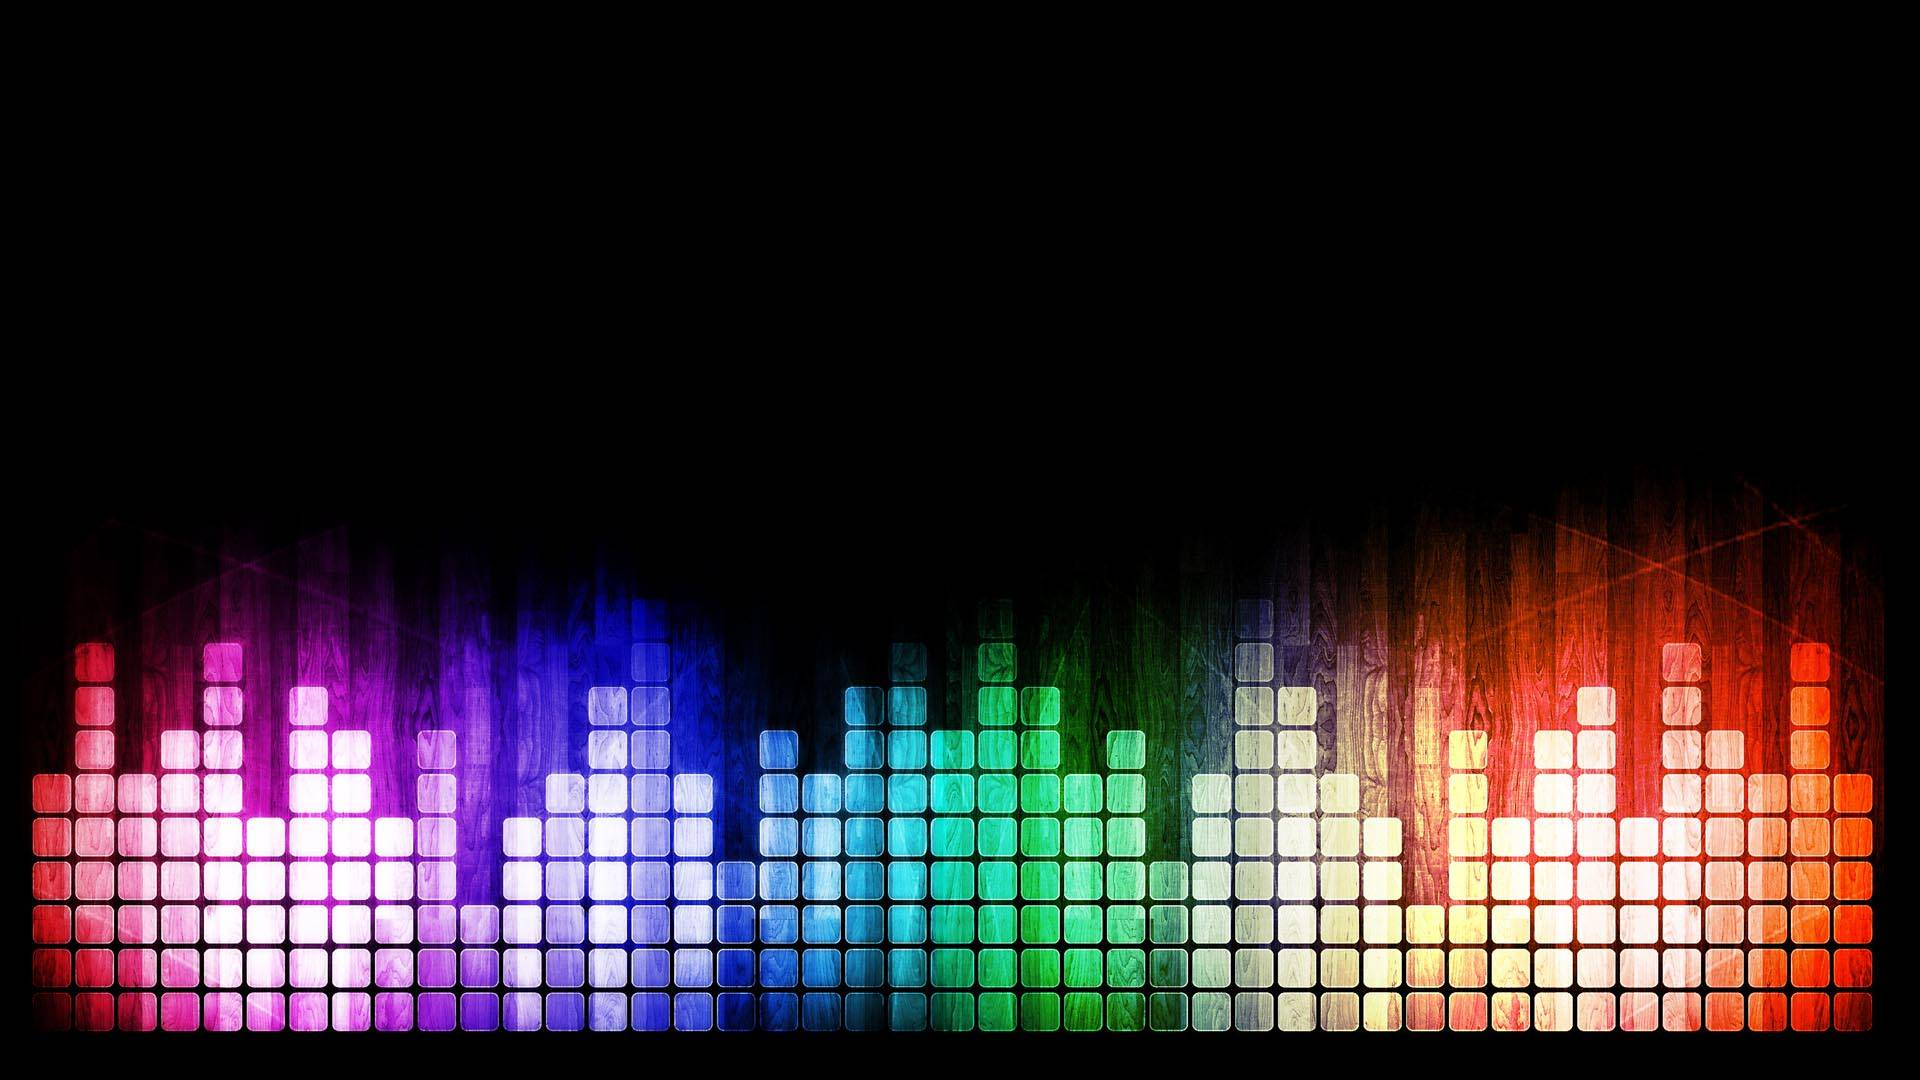
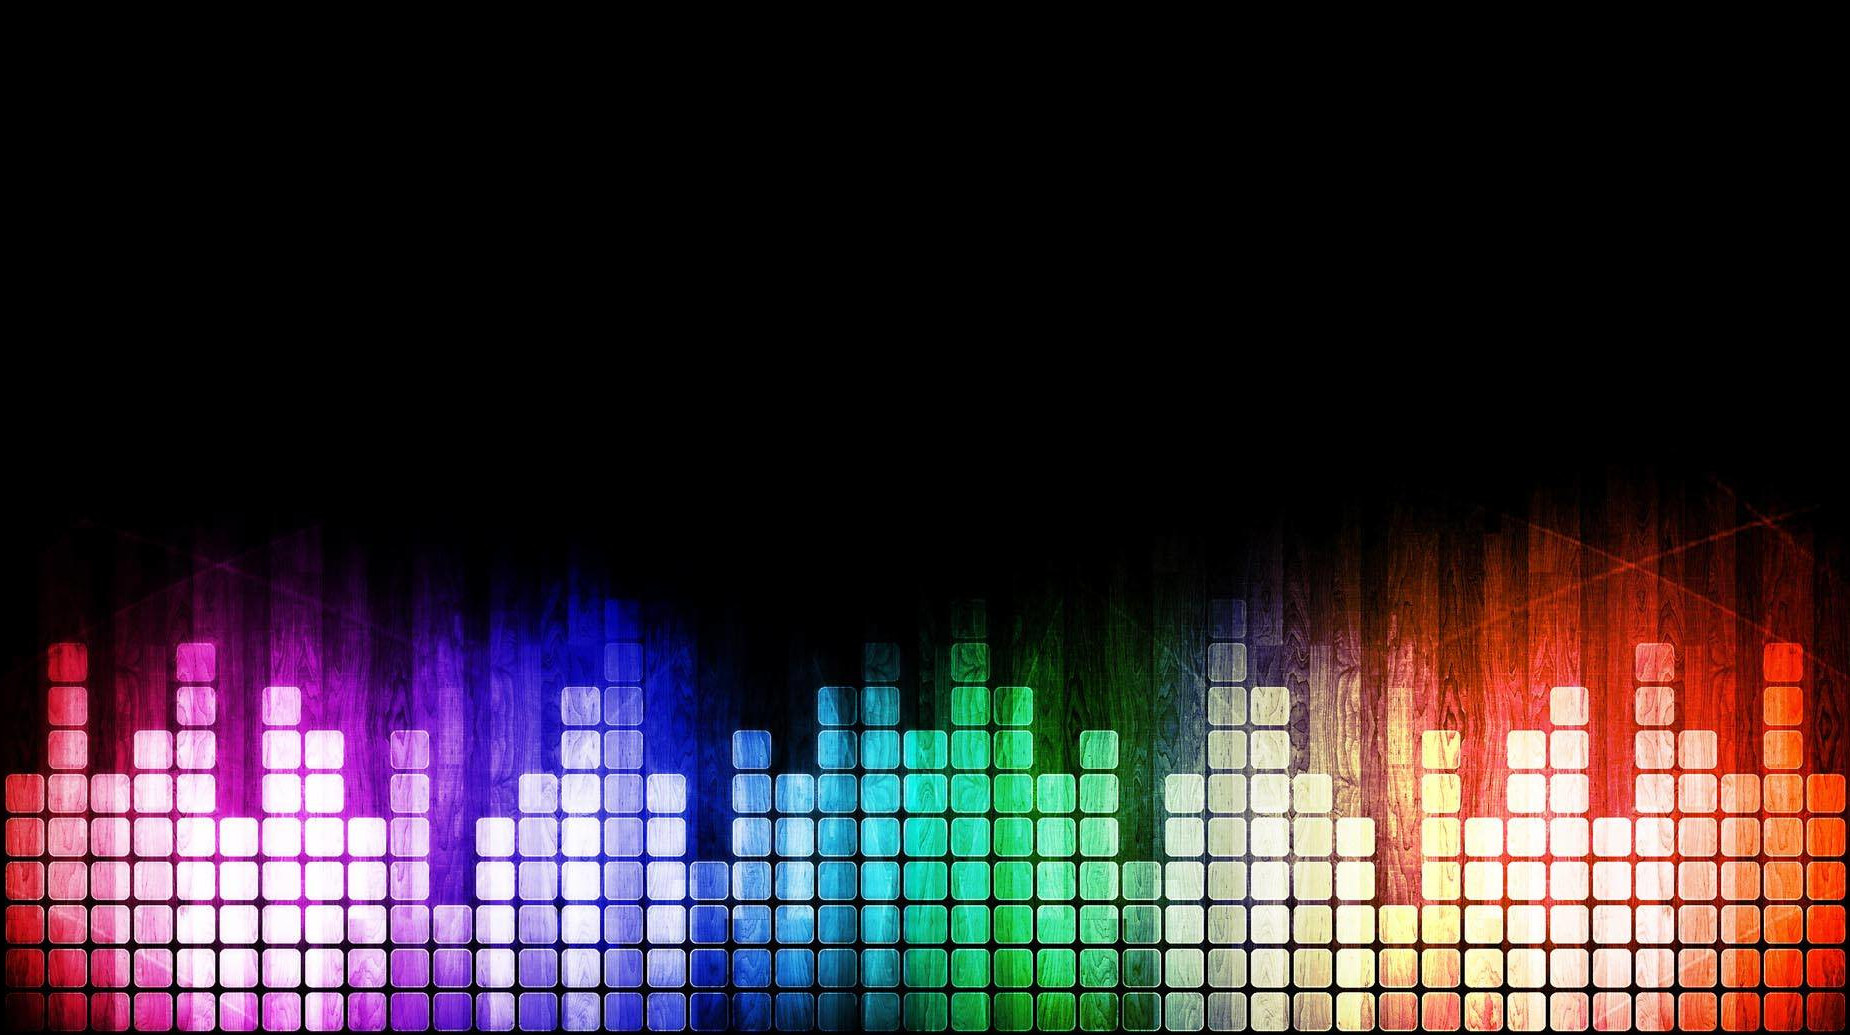
possible new design?

diff --git a/src/components/navbar.vue b/src/components/navbar.vue
@@ -1,16 +1,48 @@
 <template>
   <div class="nav">
     <div class="links">
-      <router-link tag="a" class="rlink" to="/">Home</router-link> |
-      <router-link tag="a" class="rlink" to="/login">Login</router-link> | 
-      <router-link tag="a" class="rlink" to="/register">Register</router-link> 
+      <router-link tag="a" class="rlink" id="home" to="/">
+        <img src="@/assets/logo_inverted.png"/>  
+      </router-link>
+      <a class="spotify-link" v-bind:href="authLink"><i class="fab fa-spotify"></i> Log in with Spotify</a>
     </div>
   </div>
 </template>
 
 <script>
 export default {
-  name: 'Navbar'
+  name: 'Navbar',
+  data() {
+    return {
+      authLink: ""
+    }
+  },
+  methods: {
+    getToken: function() {
+      let tokenCode = this.$data.tokenCode;
+      let clientId = '7616d568b9dc48e99f6a3776c6847315';
+      let clientSecret = '***REMOVED***';
+      let encoded = btoa(clientId + ':' + clientSecret);
+      let scopes = encodeURIComponent('playlist-modify-public playlist-modify-private user-modify-playback-state user-top-read user-read-recently-played user-read-private user-read-email user-read-birthdate');
+      let postUrl = 'https://accounts.spotify.com/authorize'
+                    + '?client_id=' + clientId
+                    // + '?client_secret=' + clientSecret
+                    + '&response_type=' + 'token'
+                    // + '?grant_type=' + 'authorization_code'
+                    // + '?code=' + tokenCode
+                    + '&scope=' + scopes
+                    + '&redirect_uri=' + encodeURIComponent('http://localhost:8080/verify');
+      console.log(postUrl);
+      this.$data.authLink = postUrl;  
+    },
+    getInfo: function() {
+      
+    }
+  },
+  mounted() {
+    this.getToken();
+    this.getInfo();
+  }
 }
 </script>
 
@@ -19,18 +51,32 @@ export default {
     margin: 0;
     padding: 0;
     height: 50px;
-    border-radius: 5px;
+    /*border-radius: 5px;*/
     background-color: #272727;
     text-align: center;
   }
   
-  .links {
-    padding-top: 10px;
-  }
-
-  .rlink {
+  .spotify-link{
     color: #d8d8d8;
     text-decoration: none;
+    position:absolute;
+    right: 20px;
+    top: 10px;
+    height: 40px;
+    font-size: 1.4em;
+    display: block;
+  }
+  #home {
+    color: #d8d8d8;
+    text-decoration: none;
+    position:absolute;
+    left:20px;;
+  }
+
+  img {
+    width: 40px;
+    position: absolute;
+    top: 10px;
   }
 
 </style>

diff --git a/src/views/Home.vue b/src/views/Home.vue
@@ -2,9 +2,8 @@
   <div class="home">
     <Navbar />
     <h1>TunePort</h1>  
-    <img class = "tuneportlogo" src = "../assets/logo_inverted.png" />
-    <img class = "animated" src = "../assets/audio.gif" />
-    <img class = "backgroundimg" src = "../assets/audio.jpg" />
+      <router-link id="link" tag="a" to="/register">Get Started</router-link>
+    <img class = "backgroundimg" src = "../assets/headphones.jpg" />
     <p class="subtitle">Take Control of Your Music</p>
   </div>
 </template>
@@ -33,6 +32,8 @@ export default {
 <style>
 /* Global styles */
 body {
+  margin: 0;
+  background-color: #EBF1F3;/* #2c3e50;*/
   color: #d8d8d8;
 }
 
@@ -47,50 +48,30 @@ h1 {
 
 .backgroundimg{
   position: absolute;
-  margin: 0px;
-  padding: 0px;
-  border: 0px;
-  width: 107%;
-  bottom: -60px;
-  left: -40px;
+  max-width: 140%;
+  top: 0px;
+  left: -15%;
+  height: auto;
   z-index: -2;
-}
-
-.animated {
-  position: absolute;
-  background-color: rgba(255, 255, 255, 0);
-  left: 650px;
-  top: 12%;
-  z-index: -1;
 }
 
 h1 {
   position: absolute;
   background-color: rgba(255, 255, 255, 0);
-  color: #d8d8d8;
-  font-size: 6em;
+  color: #000000;
+  font-size: 7em;
   position: absolute;
   top: 22%;
-  left: 250px;
+  left: 150px;
 }
 
 p.subtitle {
   position: absolute;
   top: 37%;
-  left: 265px;
-  font-size: 1.5em;
-  color: #d8d8d8;
+  left: 165px;
+  font-size: 3em;
+  color: #000000;
 }
-
-.tuneportlogo {
-  background-color: rgba(255, 255, 255, 0);
-  position: absolute;
-  top: 31%;
-  left: 145px;
-  margin: 0px;
-  width: 100px;
-}
-
 
 .spotifylogo {
   background-color: rgba(255, 255, 255, 0);
@@ -101,12 +82,17 @@ a {
   font-size: 1.2em;
 }
 
-a.login-button {
+#link {
   position: absolute;
-  top: 50%;
-  border: 1px solid white;
-  color: #d8d8d8; 
-  padding: 1%;
+  height: 40px;
+  width: 215px;
+  top: 450px;
+  left: 165px;
+  border-radius: 5px;
+  background-color: #1dbab4/*#7CDBD5*/;
+  color: #ffffff;
+  font-size: 2em;
+  text-align: center;
+  text-decoration: none;
 }
-
 </style>

diff --git a/src/views/Register.vue b/src/views/Register.vue
@@ -1,6 +1,6 @@
 <template>
   <div class="register">
-    <Navbar />
+    <Navbar class="navbar"/>
     <div class="container">
       <div class="left"></div>
       <div class="right">
@@ -8,7 +8,7 @@
         <p class="text">Glad that you're joining us!</p>
         <p class="text">Tuneport is a great way to be able to take control of how your Spotify recommendations are generated.</p>
         <p class="text">Tuneport uses recommendations from your Spotify account to function. A Spotify account is required to use Tuneport.</p>
-        <a class="spotify-link" v-bind:href="authLink"><i class="fab fa-spotify"></i> Log in to Spotify</a>
+        <a class="spotify-link" v-bind:href="authLink"><i class="fab fa-spotify"></i> Log in with Spotify</a>
       </div>
     </div>
   </div>
@@ -56,9 +56,9 @@ export default {
 }
 </script>
 
-<style >
+<style scoped>
 body{
-  background-color: #000000;/* #2c3e50;*/
+  background-color: #EBF1F3;/* #2c3e50;*/
 }
 
 h1 {
@@ -66,7 +66,7 @@ h1 {
 }
 
 .left {
-  background-image: url('https://images.pexels.com/photos/1690081/pexels-photo-1690081.jpeg?auto=compress&cs=tinysrgb&dpr=2&h=750&w=1260');
+  background-image: url("../assets/marshmellow.jpg");
   background-position: center;
   background-size: cover;
   border-top-left-radius: 5%;
@@ -79,7 +79,7 @@ h1 {
   background-color:  #151616; 
   border-top-right-radius: 5%;
   border-bottom-right-radius: 5%;
-  border-top: 2px solid #fa0300;
+  border-top: 2px solid #1dbab4;
 }
 
 p.text {
@@ -97,7 +97,7 @@ p.text {
 
 a.spotify-link {
   display: inline-block;
-  margin-left: 50%;
+  margin-left: 40%;
   margin-top: 10%;
   color: #ffffff;
   background-color: #1DB954;

diff --git a/src/views/Dashboard.vue b/src/views/Dashboard.vue
@@ -1,6 +1,9 @@
 <template>
   <div class="dashboard">
     <div class="topbar">
+      <router-link tag="a" class="rlink" id="home" to="/">
+        <img src="@/assets/logo_inverted.png"/>  
+      </router-link>
       <h1 id="dashtitle">Dashboard</h1>
     </div>
     <div class="subtitle">
@@ -41,28 +44,35 @@ export default {
 </script>
 
 <style scoped>
+.dashboard {
+  position: absolute;
+  width: 100%;
+  height: 100%;
+
+}
 
 .topbar {
   position: fixed;
-  width: 98.3%;
+  width: 100%;
   height: 50px;
-  top: 1%;
-  border-radius: 5px;
+  top: 0%;
   background-color: #272727;
-  text-align: left;
-  text-indent: 10px;
+  text-align: center;
   z-index: 3;
 }
 
 .subtitle {
   margin: 75px 0px 0px 10px;
   font-size: 2em;
-  color: #d8d8d8;
+  color: #272727;
+}
+h1 {
+  margin-top:5px;
 }
 
-h1 {
+h1 > #dashtitle{
   position: absolute;
-  margin: 5px 0px 0px 0px;
+  margin: 0px 0px 0px 0px;
   padding: 0;
 }
 
@@ -80,5 +90,15 @@ h2 {
 
 .nextcard { /* temporary */ 
   margin: 0px 0px 0px 25px;
+}
+
+img {
+  width: 40px;
+  position: absolute;
+  top: 10px;
+  color: #d8d8d8;
+  text-decoration: none;
+  position:absolute;
+  left:20px;;
 }
 </style>

diff --git a/src/App.vue b/src/App.vue
@@ -8,7 +8,7 @@
 @import url('https://fonts.googleapis.com/css?family=Signika');
 
 #app {
-  font-family: 'Signika', Helvetica, Arial, sans-serif;
+  font-family: Verdana, Geneva, Tahoma, sans-serif;
   -webkit-font-smoothing: antialiased;
   -moz-osx-font-smoothing: grayscale;
   letter-spacing: 1px;
